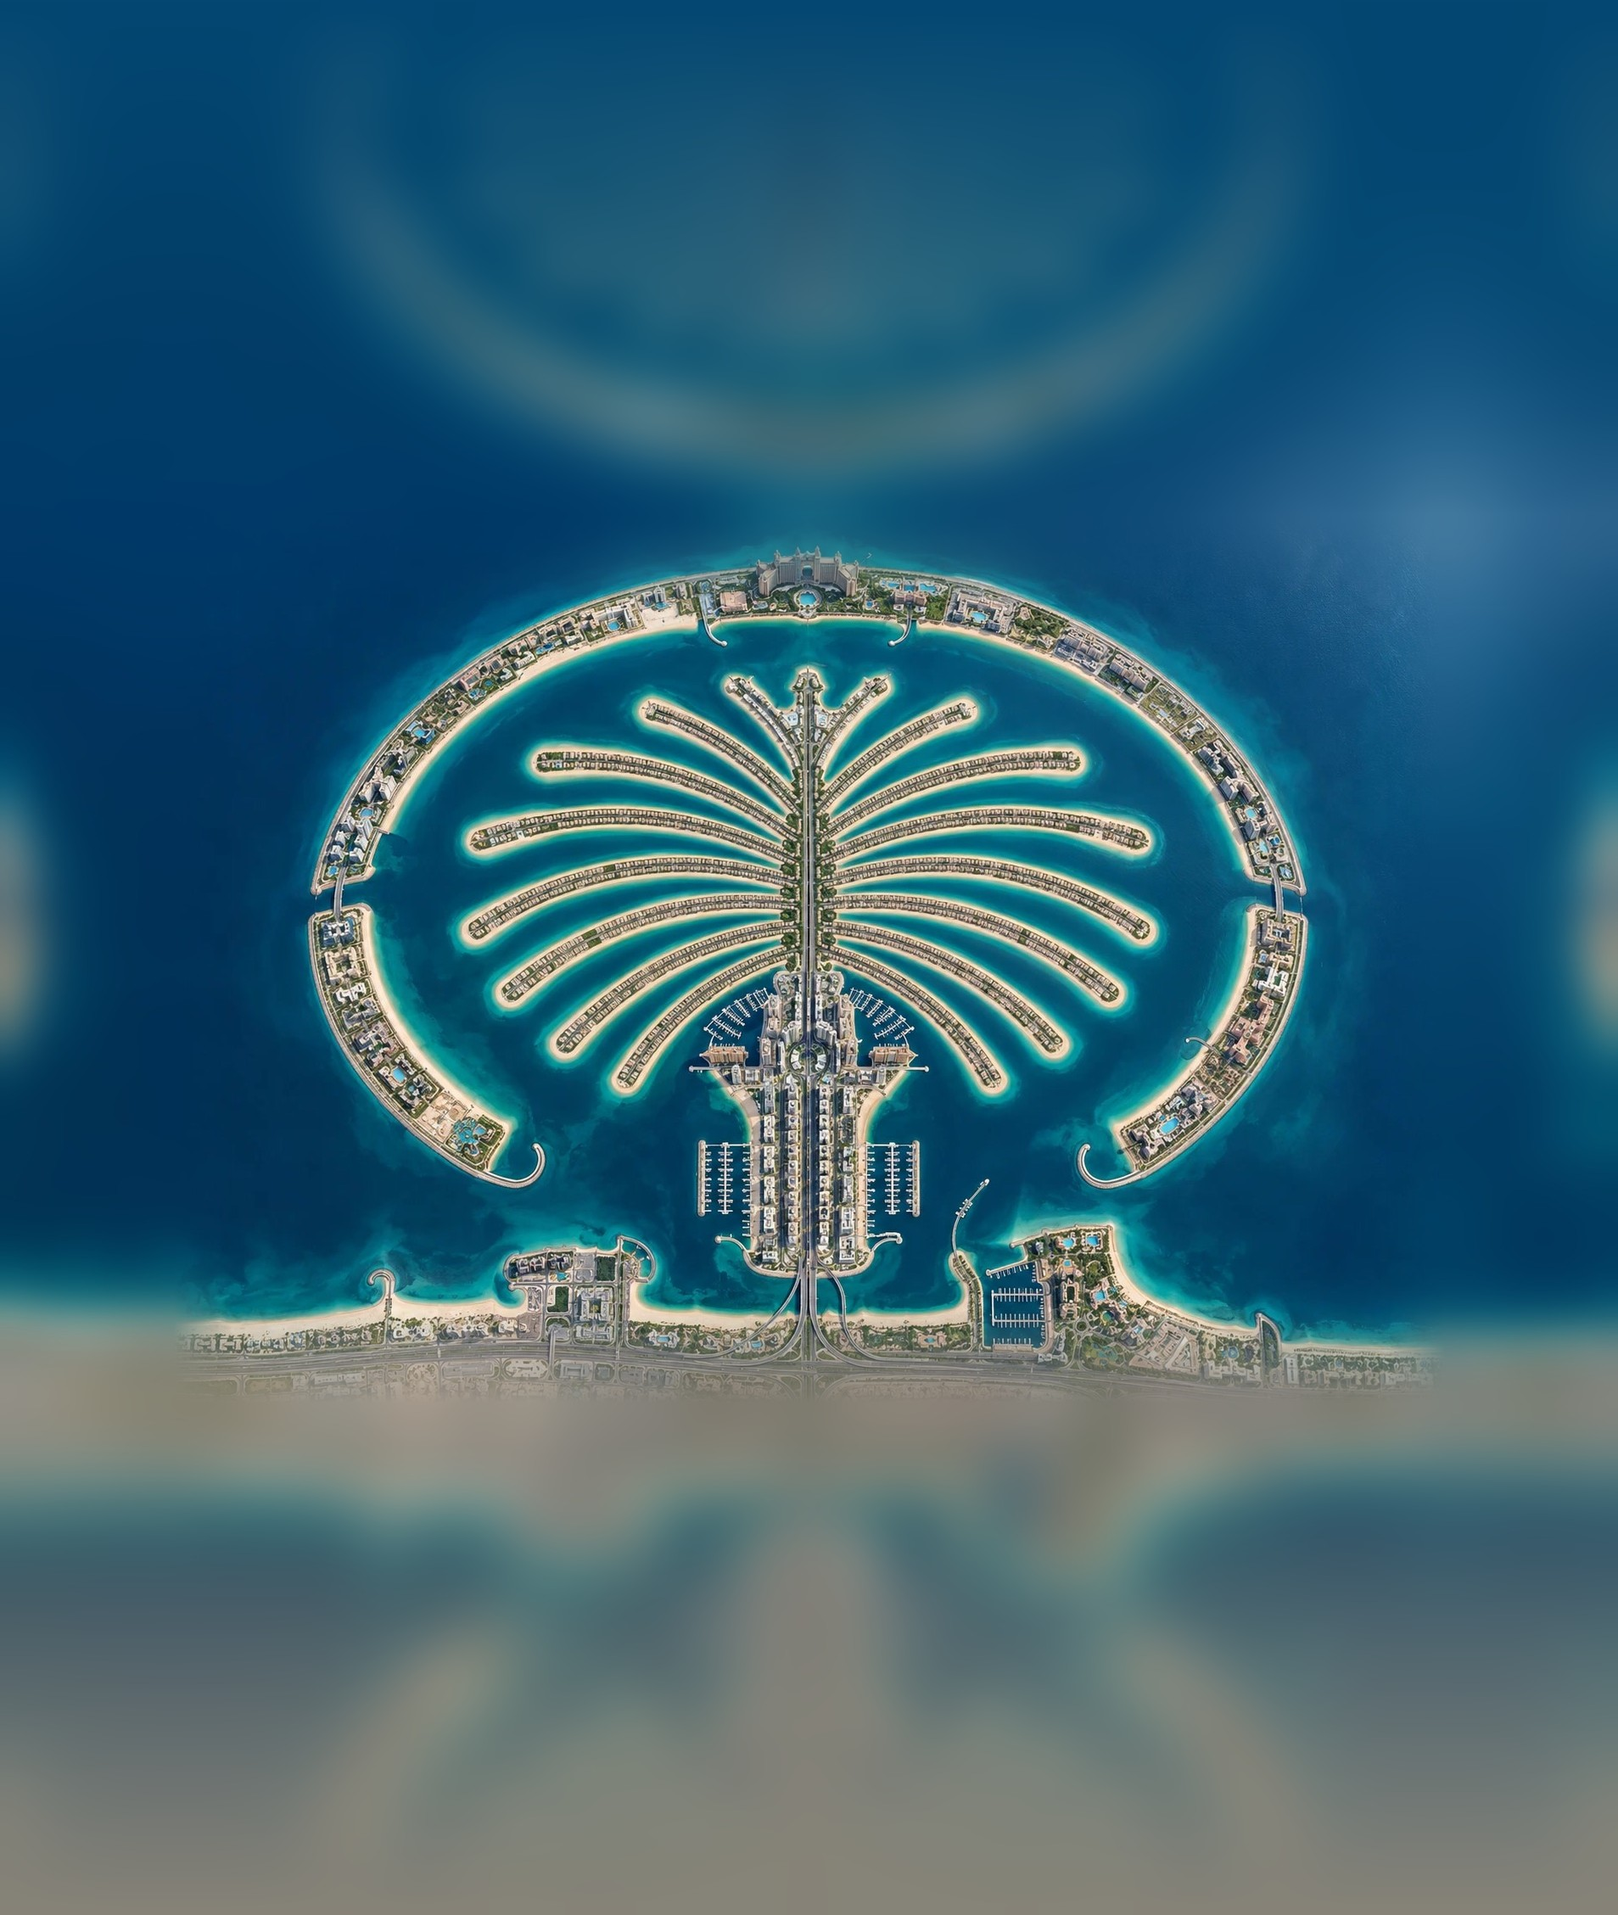
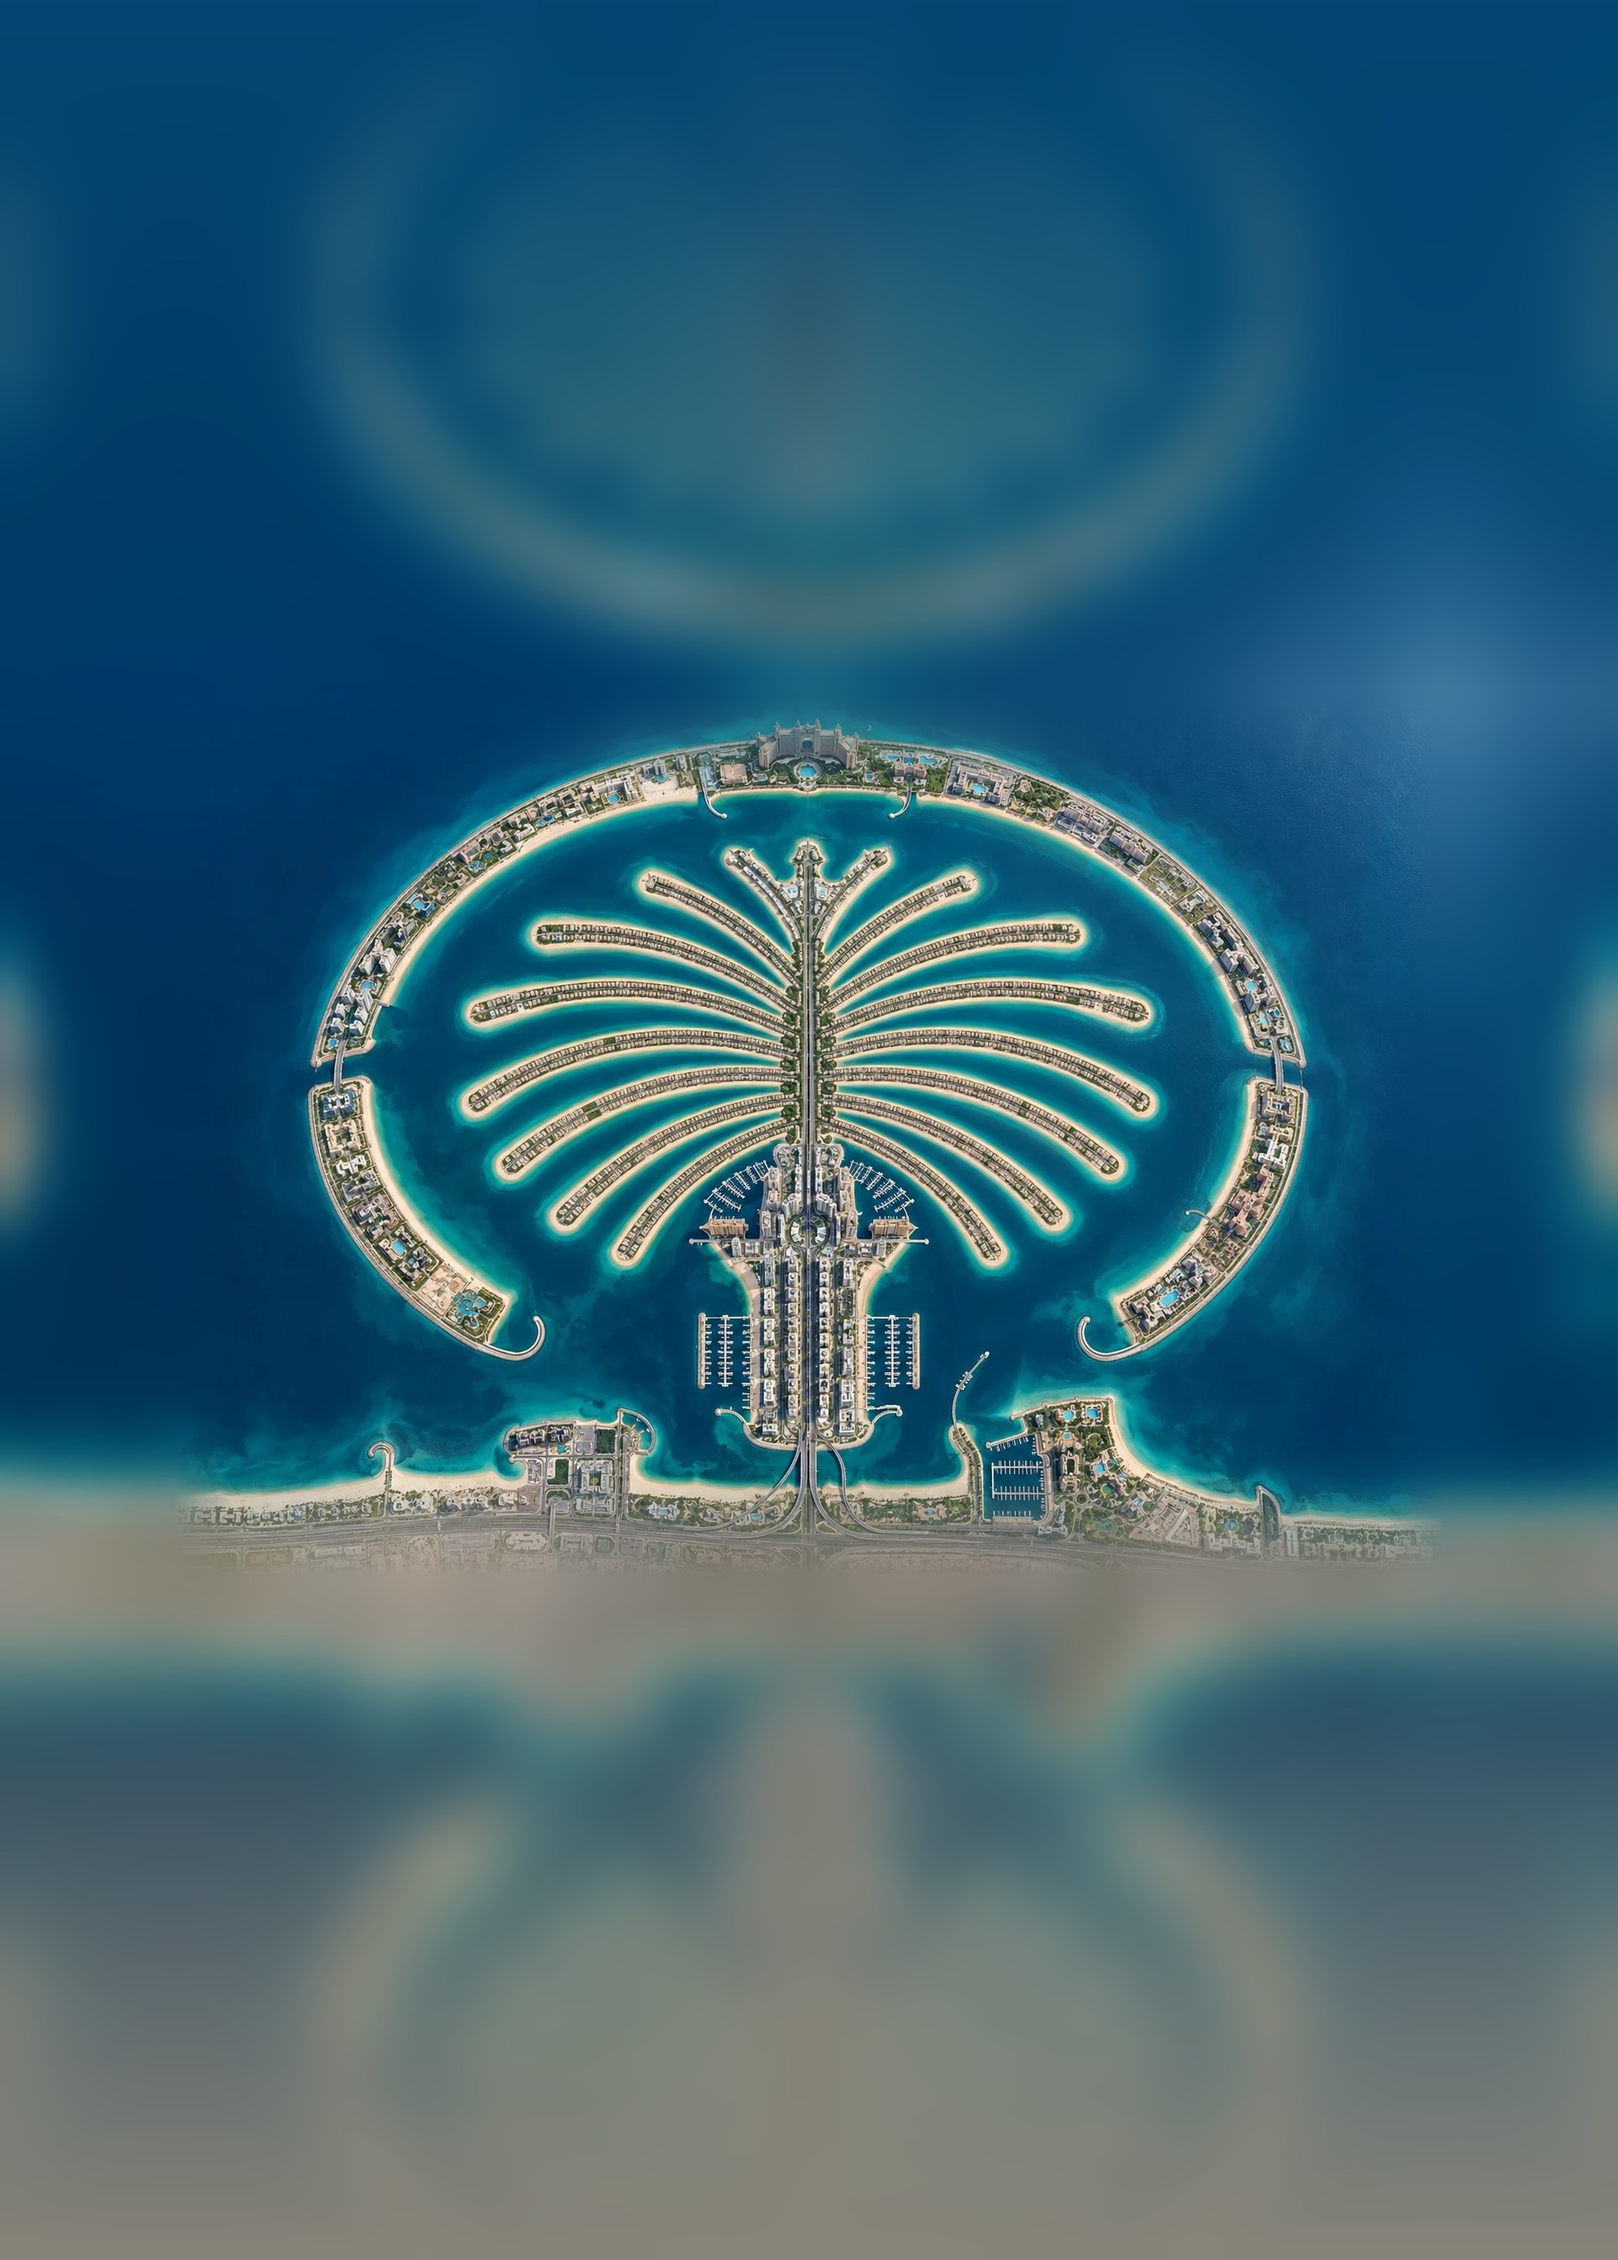
Match the template's proportions instead of reformatting to 4:5
The compositions were being rebuilt at 1080x1350 on the assumption that
Instagram's feed format should win. That squashed the layout and shrank the
masthead badly - 84px against the template's 132.

Renders at 1080x1620 now, which is the template's own 1024x1536 scaled by
1.0547, so every measured position maps across directly rather than being
re-estimated. Masthead, subtitle, rule, intro and both icon blocks are placed
from measurements taken off the artwork; three-block slides sit a little
higher and closer together.

The map image is regenerated for the taller canvas (1907x2663).

Claude-Session: https://claude.ai/code/session_01BbQTQQbn9dNXew4s3oAXzf

diff --git a/src/PalmSlide.tsx b/src/PalmSlide.tsx
@@ -12,20 +12,32 @@ import type { Block, Carousel } from "./palm-content";
 import { theme } from "./palm-content";
 import type { Ring } from "./palm-geo";
 
-/* ---------- layout (1080 x 1350) ---------- */
-const RULE_X = 56;
-const COL_X = 104;
-const COL_W = 360;
-const MAP_X = 372;
+/* ---------- layout (1080 x 1620) ----------
+ * Positions measured off the supplied template (1024x1536) and scaled by
+ * 1080/1024 = 1.0547, so the composition matches it rather than approximating.
+ */
+const RULE_X = 47;
+const COL_X = 109;
+const COL_W = 372;
+const MAP_X = 356;
 const MAP_W = 1080 - MAP_X;
+const H = 1620;
+
+const HEAD_TOP = 153;
+const HEAD_SIZE = 132;
+const HEAD_LEADING = 103;
+const SUB_TOP = 379;
+const SUB_SIZE = 20;
+const DIV_TOP = 424;
+const INTRO_TOP = 466;
 /*
  * The aerial is wide and short; this column is tall and narrow. Filling the
  * column would crop the island down to a strip, so the map is laid in at a
  * size where the whole island reads, and the column fades it into the cream
  * at top and bottom instead.
  */
-const CONTENT_W = 1140;
-const CONTENT_H = 1350;
+const CONTENT_W = 1160;
+const CONTENT_H = H;
 
 /*
  * The map is served widened (public/masterplan-wide.jpg): the source is
@@ -34,11 +46,11 @@ const CONTENT_H = 1350;
  * are remapped into the widened frame here.
  */
 const IMG_W = 1907;
-const IMG_H = 2257;
+const IMG_H = 2663;
 const PAD_X = 0.106974;
 const SCALE_X = 0.786051;
-const PAD_Y = 0.267612;
-const SCALE_Y = 0.464776;
+const PAD_Y = 0.303042;
+const SCALE_Y = 0.393917;
 const wide = (rings: Ring[] | undefined): Ring[] | undefined =>
   rings?.map((r) =>
     r.map(([x, y]) => [PAD_X + x * SCALE_X, PAD_Y + y * SCALE_Y] as [number, number]),
@@ -134,15 +146,16 @@ export const PalmSlide: React.FC<Carousel> = ({
     translate: `0px ${ease(frame, s(at), s(at + 0.38), 20, 0)}px`,
   });
 
-  // Three blocks need to breathe less than two.
+  // Icon centres measured off the template: 657 and 993 for two blocks.
+  // Three blocks start a little higher and sit closer together.
   const tight = blocks.length > 2;
-  const iconD = tight ? 46 : 54;
-  const blockGap = tight ? 30 : 52;
+  const iconD = tight ? 66 : 75;
+  const blockTops = tight ? [600, 932, 1264] : [657, 993];
 
   return (
     <AbsoluteFill style={{ backgroundColor: theme.bg, fontFamily: theme.sans }}>
       {/* soft palm shadow falling across the top-left, as in the template */}
-      <svg width={1080} height={1350} style={{ position: "absolute" }}>
+      <svg width={1080} height={H} style={{ position: "absolute" }}>
         <defs>
           <filter id="soften">
             <feGaussianBlur stdDeviation="9" />
@@ -164,7 +177,7 @@ export const PalmSlide: React.FC<Carousel> = ({
           x1={RULE_X}
           y1={120}
           x2={RULE_X}
-          y2={1236}
+          y2={1486}
           stroke={theme.ink}
           strokeWidth={1}
           opacity={0.35}
@@ -178,7 +191,7 @@ export const PalmSlide: React.FC<Carousel> = ({
           left: MAP_X,
           top: 0,
           width: MAP_W,
-          height: 1350,
+          height: H,
           overflow: "hidden",
           maskImage:
             "linear-gradient(to right, transparent 0px, black 210px, black 100%)",
@@ -191,7 +204,7 @@ export const PalmSlide: React.FC<Carousel> = ({
           style={{
             position: "absolute",
             left: (MAP_W - CONTENT_W) / 2,
-            top: (1350 - CONTENT_H) / 2,
+            top: (H - CONTENT_H) / 2,
             width: CONTENT_W,
             height: CONTENT_H,
             transformOrigin: `${cx * 100}% ${cy * 100}%`,
@@ -296,11 +309,11 @@ export const PalmSlide: React.FC<Carousel> = ({
       </div>
 
       {/* thin arc sweeping across the map, as in the template */}
-      <svg width={1080} height={1350} style={{ position: "absolute", pointerEvents: "none" }}>
+      <svg width={1080} height={H} style={{ position: "absolute", pointerEvents: "none" }}>
         <circle
-          cx={726}
-          cy={742}
-          r={602}
+          cx={742}
+          cy={880}
+          r={690}
           fill="none"
           stroke={theme.ink}
           strokeWidth={1}
@@ -308,120 +321,129 @@ export const PalmSlide: React.FC<Carousel> = ({
         />
       </svg>
 
-      {/* left column */}
-      <div style={{ position: "absolute", left: COL_X, top: 136, width: COL_W }}>
+      {/* left column - every position measured off the template */}
+      <div
+        style={{
+          position: "absolute",
+          left: COL_X,
+          top: HEAD_TOP,
+          width: 520,
+          fontSize: HEAD_SIZE,
+          fontWeight: 900,
+          lineHeight: HEAD_LEADING / HEAD_SIZE,
+          letterSpacing: -3.4,
+          color: theme.ink,
+          ...rise(0),
+        }}
+      >
+        {areaName[0]}
+        <br />
+        {areaName[1]}
+      </div>
+
+      <div
+        style={{
+          position: "absolute",
+          left: COL_X,
+          top: SUB_TOP,
+          fontSize: SUB_SIZE,
+          fontWeight: 600,
+          letterSpacing: 6,
+          color: theme.ink,
+          ...rise(0.3),
+        }}
+      >
+        {subtitle}
+      </div>
+
+      <div
+        style={{
+          position: "absolute",
+          left: COL_X,
+          top: DIV_TOP,
+          height: 1,
+          backgroundColor: theme.rule,
+          width: ease(frame, s(0.55), s(1.15), 0, 74),
+        }}
+      />
+
+      <div
+        style={{
+          position: "absolute",
+          left: COL_X,
+          top: INTRO_TOP,
+          width: COL_W,
+          fontSize: 19.5,
+          lineHeight: 1.62,
+          color: theme.body,
+          ...rise(0.7),
+        }}
+      >
+        {intro}
+      </div>
+
+      {blocks.map((b: Block, i) => (
         <div
+          key={i}
           style={{
-            fontSize: 84,
-            fontWeight: 900,
-            lineHeight: 0.94,
-            letterSpacing: -2.4,
-            color: theme.ink,
-            ...rise(0),
+            position: "absolute",
+            left: COL_X,
+            top: blockTops[i],
+            width: COL_W,
+            ...rise(4.0 + i * 0.3),
           }}
         >
-          {areaName[0]}
-          <br />
-          {areaName[1]}
-        </div>
-
-        <div
-          style={{
-            marginTop: 18,
-            fontSize: 17,
-            fontWeight: 600,
-            letterSpacing: 4.2,
-            color: theme.ink,
-            ...rise(0.3),
-          }}
-        >
-          {subtitle}
-        </div>
-
-        <div
-          style={{
-            marginTop: 26,
-            height: 1,
-            backgroundColor: theme.rule,
-            width: ease(frame, s(0.55), s(1.15), 0, 68),
-          }}
-        />
-
-        <div
-          style={{
-            marginTop: 24,
-            fontSize: 17.5,
-            lineHeight: 1.62,
-            color: theme.body,
-            ...rise(0.7),
-          }}
-        >
-          {intro}
-        </div>
-
-        {blocks.map((b: Block, i) => (
-          <div key={i} style={{ marginTop: blockGap, ...rise(4.0 + i * 0.3) }}>
-            {i > 0 ? (
-              <div
-                style={{
-                  width: 68,
-                  height: 1,
-                  backgroundColor: theme.rule,
-                  marginBottom: blockGap,
-                }}
-              />
-            ) : null}
+          <div
+            style={{
+              width: iconD,
+              height: iconD,
+              borderRadius: 999,
+              backgroundColor: theme.circle,
+              display: "flex",
+              alignItems: "center",
+              justifyContent: "center",
+            }}
+          >
+            <TowerIcon size={iconD * 0.56} />
+          </div>
+          <div
+            style={{
+              marginTop: 26,
+              fontSize: 25,
+              fontWeight: 700,
+              letterSpacing: 2.6,
+              lineHeight: 1.3,
+              color: theme.ink,
+              whiteSpace: "pre-line",
+            }}
+          >
+            {b.title}
+          </div>
+          {b.range ? (
             <div
               style={{
-                width: iconD,
-                height: iconD,
-                borderRadius: 999,
-                backgroundColor: theme.circle,
-                display: "flex",
-                alignItems: "center",
-                justifyContent: "center",
-              }}
-            >
-              <TowerIcon size={iconD * 0.56} />
-            </div>
-            <div
-              style={{
-                marginTop: 20,
-                fontSize: tight ? 17 : 18,
-                fontWeight: 700,
+                marginTop: 11,
+                fontSize: 15,
                 letterSpacing: 2.6,
-                lineHeight: 1.35,
-                color: theme.ink,
-                whiteSpace: "pre-line",
-              }}
-            >
-              {b.title}
-            </div>
-            {b.range ? (
-              <div
-                style={{
-                  marginTop: 9,
-                  fontSize: 13.5,
-                  letterSpacing: 2.4,
-                  color: theme.body,
-                }}
-              >
-                {b.range}
-              </div>
-            ) : null}
-            <div
-              style={{
-                marginTop: 12,
-                fontSize: tight ? 15.5 : 16.5,
-                lineHeight: 1.58,
                 color: theme.body,
               }}
             >
-              {b.body}
+              {b.range}
             </div>
+          ) : null}
+          <div
+            style={{
+              marginTop: 14,
+              fontSize: 19,
+              lineHeight: 1.6,
+              color: theme.body,
+            }}
+          >
+            {b.body}
           </div>
-        ))}
-      </div>
+        </div>
+      ))}
+
     </AbsoluteFill>
   );
 };

diff --git a/src/Root.tsx b/src/Root.tsx
@@ -4,7 +4,7 @@ import { auraGardens, auraRidge, slideSchema } from "./slides";
 import { PalmSlide } from "./PalmSlide";
 import { CRESCENT, FRONDS, TRUNK } from "./palm-content";
 
-const palm = { durationInFrames: 270, fps: 30, width: 1080, height: 1350 } as const;
+const palm = { durationInFrames: 270, fps: 30, width: 1080, height: 1620 } as const;
 
 export const RemotionRoot: React.FC = () => {
   return (
